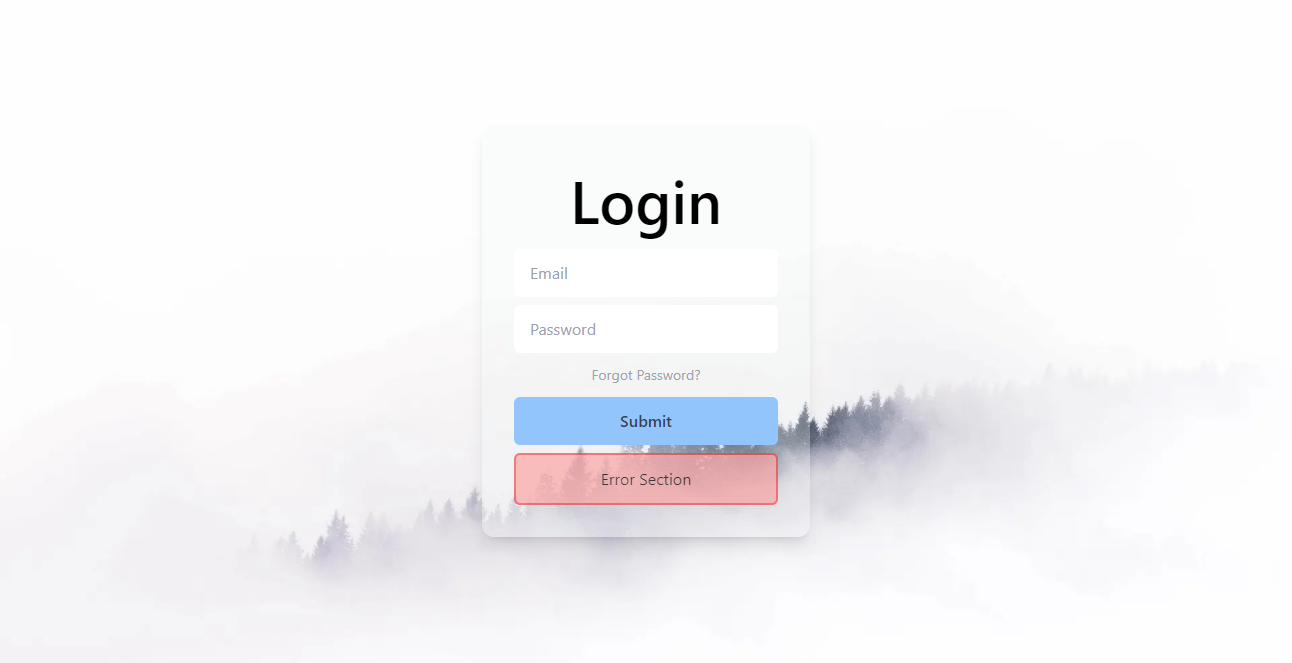
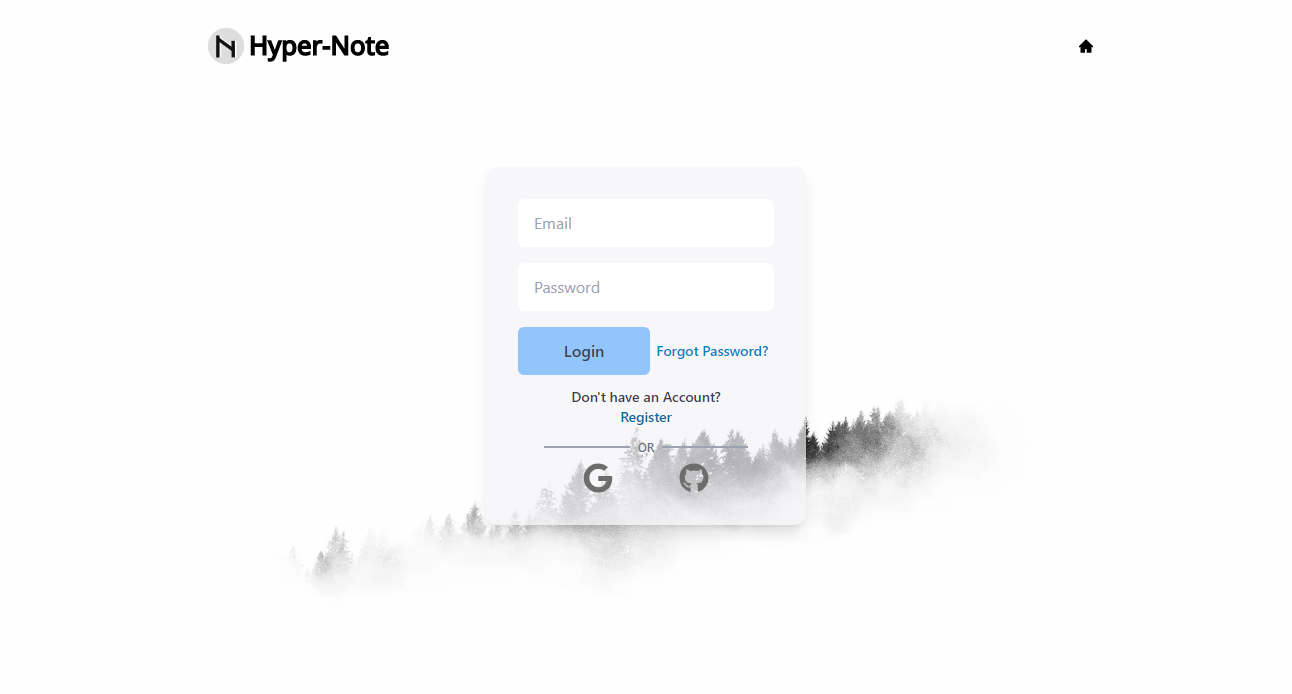
major ui update!

diff --git a/hyper-note-frontend-new/src/components/register_component/RegisterForm.tsx b/hyper-note-frontend-new/src/components/register_component/RegisterForm.tsx
@@ -1,0 +1,60 @@
+import React, { useEffect, useState } from 'react'
+import Link from 'next/link'
+import { FaGithub, FaGoogle } from 'react-icons/fa'
+
+const RegisterForm = () => {
+    const initialRegisterState = { firstname: "", lastname: "", email: "", password: "", confirmpassword: "" }
+    const [register, setRegister] = useState(initialRegisterState)
+    const initialErrorState = { ...initialRegisterState, error: false }
+    const [error, setError] = useState(initialErrorState)
+    const handleSubmit = (event: React.FormEvent<HTMLFormElement>) => {
+        event.preventDefault();
+        const { firstname, lastname, email, password } = register
+        setError(initialErrorState)
+        if (firstname === "") setError(i => ({ ...i, firstname: "*first name is required", error: true }))
+        if (lastname === "") setError(i => ({ ...i, lastname: "*last name is required", error: true }))
+        if (email === "" || !email.match(/[a-z]+[a-z0-9]*@[a-z]+\.([a-z]{3}|[a-z]{2})/g)) setError(i => ({ ...i, email: "*email is invalid", error: true }))
+        if (password.length < 8) setError(i => ({ ...i, password: "*password must be at least 8 characters.", error: true }))
+        if (error.error) return
+        console.log(email, password)
+    }
+
+    useEffect(() => {
+        setError(i => ({ ...i, confirmpassword: "*password doesn't match", error: true }))
+        if (register.confirmpassword === register.password) setError(i => ({ ...i, confirmpassword: "", error: false }));
+    }, [register.password, register.confirmpassword])
+
+    return (
+        <div className="mx-auto max-w-sm w-full py-8 px-14 bg-opacity-70 rounded-xl z-10 bg-gray-100 shadow-lg ">
+            <form className='flex flex-col text-xs sm:text-sm  justify-center items-center' onSubmit={handleSubmit}>
+                <div className='flex justify-between items-center'>
+                    <div>
+                        <input onChange={(e) => setRegister(i => ({ ...i, firstname: e.target.value }))} name="firstname" type="text" className={`px-4 mr-1 py-3 w-full focus:outline-none focus:shadow-outline  rounded-md hover:bg-stone-50 ${error.firstname ? `border border-red-500` : ``}`} placeholder="First Name" />
+                        {error.firstname !== "" ? <p className="text-red-500 px-2 py-1 text-xs italic">{error.firstname}</p> : <p className='p-2'> </p>}
+                    </div>
+                    <div>
+                        <input onChange={(e) => setRegister(i => ({ ...i, lastname: e.target.value }))} name="lastname" type="text" className={`px-4 ml-1 py-3 w-full focus:outline-none focus:shadow-outline rounded-md hover:bg-stone-50 ${error.lastname ? `border border-red-500` : ``}`} placeholder="Last Name" />
+                        {error.lastname !== "" ? <p className="text-red-500 px-2 py-1 text-xs italic">{error.lastname}</p> : <p className='p-2'> </p>}
+                    </div>
+                </div>
+                <input onChange={(e) => setRegister(i => ({ ...i, email: e.target.value }))} name="email" type="email" className={`px-4 py-3 w-full focus:outline-none focus:shadow-outline text-md rounded-md hover:bg-stone-50 ${error.email ? `border border-red-500` : ``}`} placeholder="Email" />
+                {error.email !== "" ? <p className="text-red-500 px-2 py-1 w-full text-xs italic">{error.email}</p> : <p className='p-2 w-full'></p>}
+                <input onChange={(e) => setRegister(i => ({ ...i, password: e.target.value }))} name="password" type="password" className={`px-4 py-3 w-full focus:outline-none focus:shadow-outline rounded-md hover:bg-stone-50 ${error.password ? `border border-red-500` : ``}`} placeholder="Password" />
+                {error.password !== "" ? <p className="text-red-500 px-2 py-1 w-full text-xs italic">{error.password}</p> : <p className='p-2'></p>}
+                <input onChange={(e) => setRegister(i => ({ ...i, confirmpassword: e.target.value }))} name="confirmpassword" type="password" className={`px-4 py-3 w-full focus:outline-none focus:shadow-outline rounded-md hover:bg-stone-50 ${error.confirmpassword ? `border border-red-500` : ``}`} placeholder="Confirm Password" />
+                {error.confirmpassword !== "" ? <p className="text-red-500 px-2 py-1 w-full text-xs italic">{error.confirmpassword}</p> : <p className='p-2'></p>}
+                <button type="submit" className="p-3 rounded-md text-center text-gray-700 font-semibold bg-blue-300 w-full hover:bg-blue-400">Register</button>
+                <div className='text-center p-1 cursor-pointer font-semibold text-sm text-gray-700  w-full'>Already have an Account?<Link href="/login"><div className=" text-sky-700 hover:text-sky-500">Log In</div></Link></div>
+            </form>
+            <div className='flex justify-center w-full items-center text-xs text-gray-500'>
+                <span className='w-1/3 border-[1px] border-gray-400 ' /> <div className='px-2 text-gray-500 font-semibold'>OR</div> <span className='w-1/3 border-[1px] border-gray-400 ' />
+            </div>
+            <div className='text-3xl flex w-full justify-evenly '>
+                <button type="button" onClick={() => null}><FaGoogle color='#6D6D6D' /></button>
+                <button type="button" onClick={() => null}><FaGithub color='#6D6D6D' /></button>
+            </div>
+        </div>
+    )
+}
+
+export default RegisterForm

diff --git a/hyper-note-frontend-new/src/components/login_component/LoginForm.tsx b/hyper-note-frontend-new/src/components/login_component/LoginForm.tsx
@@ -1,0 +1,44 @@
+import React, { useState } from 'react'
+import Link from 'next/link'
+import { FaGoogle, FaGithub } from 'react-icons/fa'
+
+const LoginForm = () => {
+    const initialLogin = {email: "", password: ""}
+    const initialErrorState = { ...initialLogin, error: false }
+    const [error, setError] = useState(initialErrorState)
+    const [login, setLogin] = useState(initialLogin);
+
+    const handleSubmit = (event: React.FormEvent<HTMLFormElement>) => {
+        event.preventDefault();
+        const {email, password} = login
+        setError(initialErrorState)
+        if(!(email.match(/[a-z]+[a-z0-9]*@[a-z]+\.([a-z]{3}|[a-z]{2})/g))) setError(i => ({ ...i, email: "*email is not valid.", error: true })) 
+        if (password.length < 8) setError(i => ({ ...i, password: "*password must be at least 8 characters.", error: true }))
+        if(error.error) return
+        console.log(email, password)
+    }
+    return (
+        <div className="mx-auto max-w-xs w-full pb-8 pt-8 px-8 bg-opacity-70 rounded-xl z-10 bg-gray-100 shadow-lg ">
+            <form className='flex flex-col gap-y-2' onSubmit={handleSubmit}>
+                <input onChange={(e) => setLogin(i => ({...i, email: e.target.value}))} name="email" type="email" className={`px-4 py-3 w-full text-md rounded-md focus:outline-none focus:shadow-outline hover:bg-gray-100 ${error.email ? `border border-red-500` : ``}`} placeholder="Email" />
+                {error.email !== "" ? <p className="text-red-500 px-2 text-xs italic">{error.email}</p> : <p></p>}
+                <input onChange={(e) => setLogin(i => ({...i, password: e.target.value}))} name="password" type="password" className={`px-4 py-3 w-full text-md rounded-md focus:outline-none focus:shadow-outline hover:bg-gray-100 ${error.password ? `border border-red-500` : ``} `} placeholder="Password" />
+                {error.password !== "" ? <p className="text-red-500 px-2 text-xs italic">{error.password}</p> : <p></p>}
+                <div className='block md:flex justify-center items-center'>
+                    <button type='submit' className="p-3 text-gray-700 font-semibold rounded-md text-center w-full bg-blue-300 hover:bg-blue-400">Login</button>
+                    <Link href="/forgotpassword"><div className="text-center p-1 cursor-pointer text-sm font-semibold text-sky-600 hover:text-blue-400 w-full">Forgot Password?</div></Link>
+                </div>
+                <div className='text-center p-1 cursor-pointer font-semibold text-sm text-gray-700  w-full'>Don't have an Account?<Link href="/register"><div className=" text-sky-700 hover:text-sky-500">Register</div></Link></div>
+            </form>
+            <div className='flex py-2 justify-center w-full items-center text-xs text-gray-500'>
+                <span className='w-1/3 border-[1px] border-gray-400 ' /> <div className='px-2 text-gray-500 font-semibold'>OR</div> <span className='w-1/3 border-[1px] border-gray-400 ' />
+            </div>
+            <div className='text-3xl flex justify-evenly '>
+                <button><FaGoogle color='#6D6D6D' /></button>
+                <button><FaGithub color='#6D6D6D' /></button>
+            </div>
+        </div>
+    )
+}
+
+export default LoginForm

diff --git a/hyper-note-frontend-new/src/pages/register.tsx b/hyper-note-frontend-new/src/pages/register.tsx
@@ -1,9 +1,8 @@
 import React from 'react'
 import Image from 'next/image'
-import Link from 'next/link'
 import { NextPage } from 'next'
-import { FaGithub, FaGoogle } from 'react-icons/fa'
 import NavBar1 from '../components/navbar_components/NavBar1'
+import RegisterForm from '../components/register_component/RegisterForm'
 
 const register: NextPage = () => {
   return (
@@ -13,28 +12,7 @@ const register: NextPage = () => {
         <div className="w-full h-screen absolute">
           <Image src="/loginwallp.jpg" layout="fill" objectFit="cover"></Image>
         </div>
-        <div className="mx-auto max-w-sm w-full py-8 px-14 bg-opacity-70 rounded-xl z-10 bg-gray-100 shadow-lg ">
-          <form className='flex flex-col text-xs sm:text-sm gap-y-2 justify-center items-center'>
-            {/* <h1 className="text-center text-[3.5rem] font-semibold mx-6 py-3">Register</h1> */}
-            <div className='flex justify-between items-center'>
-              <input name="firstname" type="text" className="px-4 mr-1 py-2 w-full  rounded-md hover:bg-gray-100" placeholder="First Name" />
-              <input name="lastname" type="text" className="px-4 ml-1 py-2 w-full rounded-md hover:bg-gray-100" placeholder="Last Name" />
-            </div>
-            <input name="email" type="email" className="px-4 py-2 w-full text-md rounded-md hover:bg-gray-100" placeholder="Email" />
-            <input name="password" type="password" className='px-4 py-2 w-full  rounded-md hover:bg-gray-100 ' placeholder="Password" />
-            <input name="password2" type="password" className='px-4 py-2 w-full  rounded-md hover:bg-gray-100 ' placeholder="Confirm Password" />
-            <button type="submit" className="p-3 rounded-md text-center text-gray-700 font-semibold bg-blue-300 w-full hover:bg-blue-400">Register</button>
-            <div className='text-center p-1 cursor-pointer font-semibold text-sm text-gray-700  w-full'>Already have an Account?<Link href="/forgotpassword"><div className=" text-sky-700 hover:text-sky-500">Log In</div></Link></div>
-            {/* <div className="w-full flex flex-wrap justify-center items-center py-3  text-center border-2 opacity-70 rounded-md bg-red-300 border-red-500">Error Section</div> */}
-            <div className='flex justify-center w-full items-center text-xs text-gray-500'>
-              <span className='w-1/3 border-[1px] border-gray-400 ' /> <div className='px-2 text-gray-500 font-semibold'>OR</div> <span className='w-1/3 border-[1px] border-gray-400 ' />
-            </div>
-            <div className='text-3xl flex justify-evenly w-full '>
-              <FaGoogle color='gray' />
-              <FaGithub color='gray' />
-            </div>
-          </form>
-        </div>
+        <RegisterForm />
       </div>
     </div>
   )

diff --git a/hyper-note-frontend-new/src/pages/login.tsx b/hyper-note-frontend-new/src/pages/login.tsx
@@ -1,11 +1,11 @@
 import React from 'react'
 import Image from 'next/image'
-import Link from 'next/link'
 import { NextPage } from 'next'
-import { FaGoogle, FaGithub } from 'react-icons/fa'
 import NavBar1 from '../components/navbar_components/NavBar1'
+import LoginForm from '../components/login_component/LoginForm'
 
-const login: NextPage = () => {
+const login: NextPage = () => { 
+
   return (
     <div>
       <NavBar1 />
@@ -13,24 +13,7 @@ const login: NextPage = () => {
         <div className="w-full h-screen absolute">
           <Image src="/loginwallp.jpg" layout="fill" objectFit="cover"></Image>
         </div>
-        <div className="mx-auto max-w-xs w-full pb-8 pt-8 px-8 bg-opacity-70 rounded-xl z-10 bg-gray-100 shadow-lg ">
-          <form className='flex flex-col gap-y-4'>
-            <input name="email" type="email" className="px-4 py-3 w-full text-md rounded-md hover:bg-gray-100" placeholder="Email" />
-            <input name="password" type="password" className='px-4 py-3 w-full text-md rounded-md hover:bg-gray-100 ' placeholder="Password" />
-            <div className='block md:flex justify-center items-center'>
-              <button type="submit" className="p-3 text-gray-700 font-semibold rounded-md text-center w-full bg-blue-300 hover:bg-blue-400">Login</button>
-              <Link href="/forgotpassword"><div className="text-center p-1 cursor-pointer text-sm font-semibold text-sky-600 hover:text-blue-400 w-full">Forgot Password?</div></Link>
-            </div>
-            <div className='flex justify-center items-center text-xs text-gray-500'>
-              <hr className='w-1/3 bg-gray-300 h-[0.14rem] ' /> <div className='px-2 text-gray-400 font-semibold'>OR</div> <hr className='w-1/3 bg-gray-300 h-[0.14rem]' />
-            </div>
-            <div className='text-3xl flex justify-evenly '>
-              <FaGoogle color='gray' />
-              <FaGithub color='gray' />
-            </div>
-            {/* <div className="w-full opacity-70 rounded-md flex flex-wrap justify-center items-center py-3 text-center border-2 bg-red-300 border-red-500">Error Section</div> */}
-          </form>
-        </div>
+        <LoginForm />
       </div>
     </div>
   )
